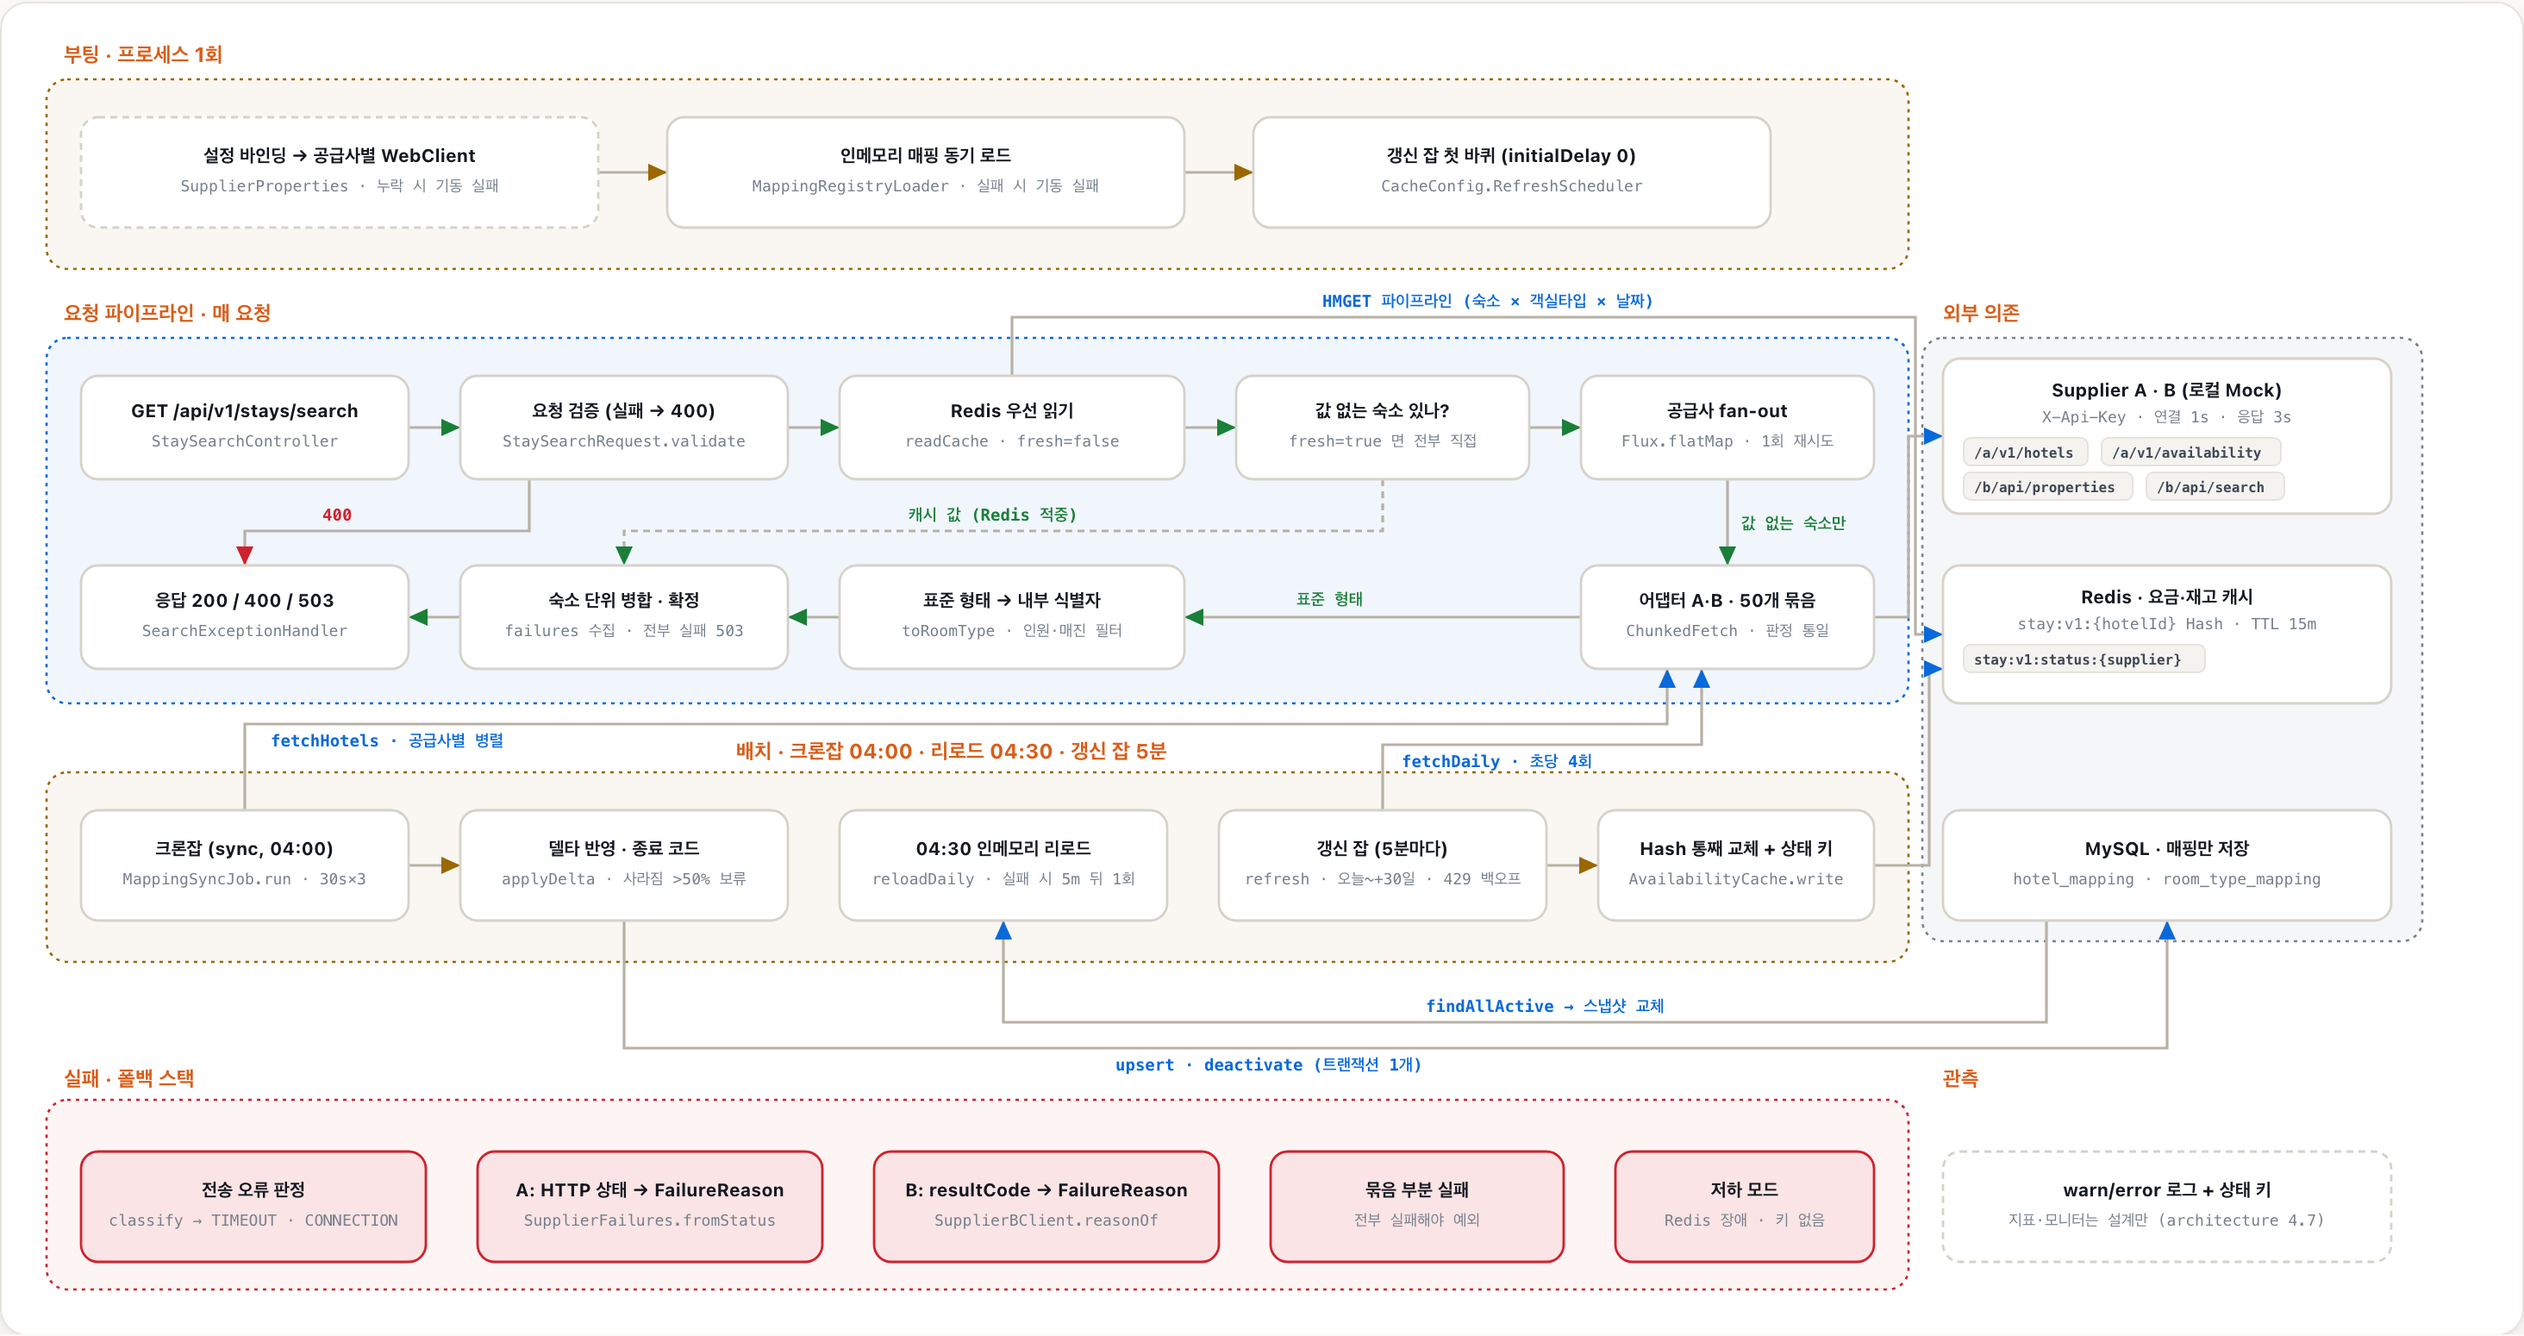
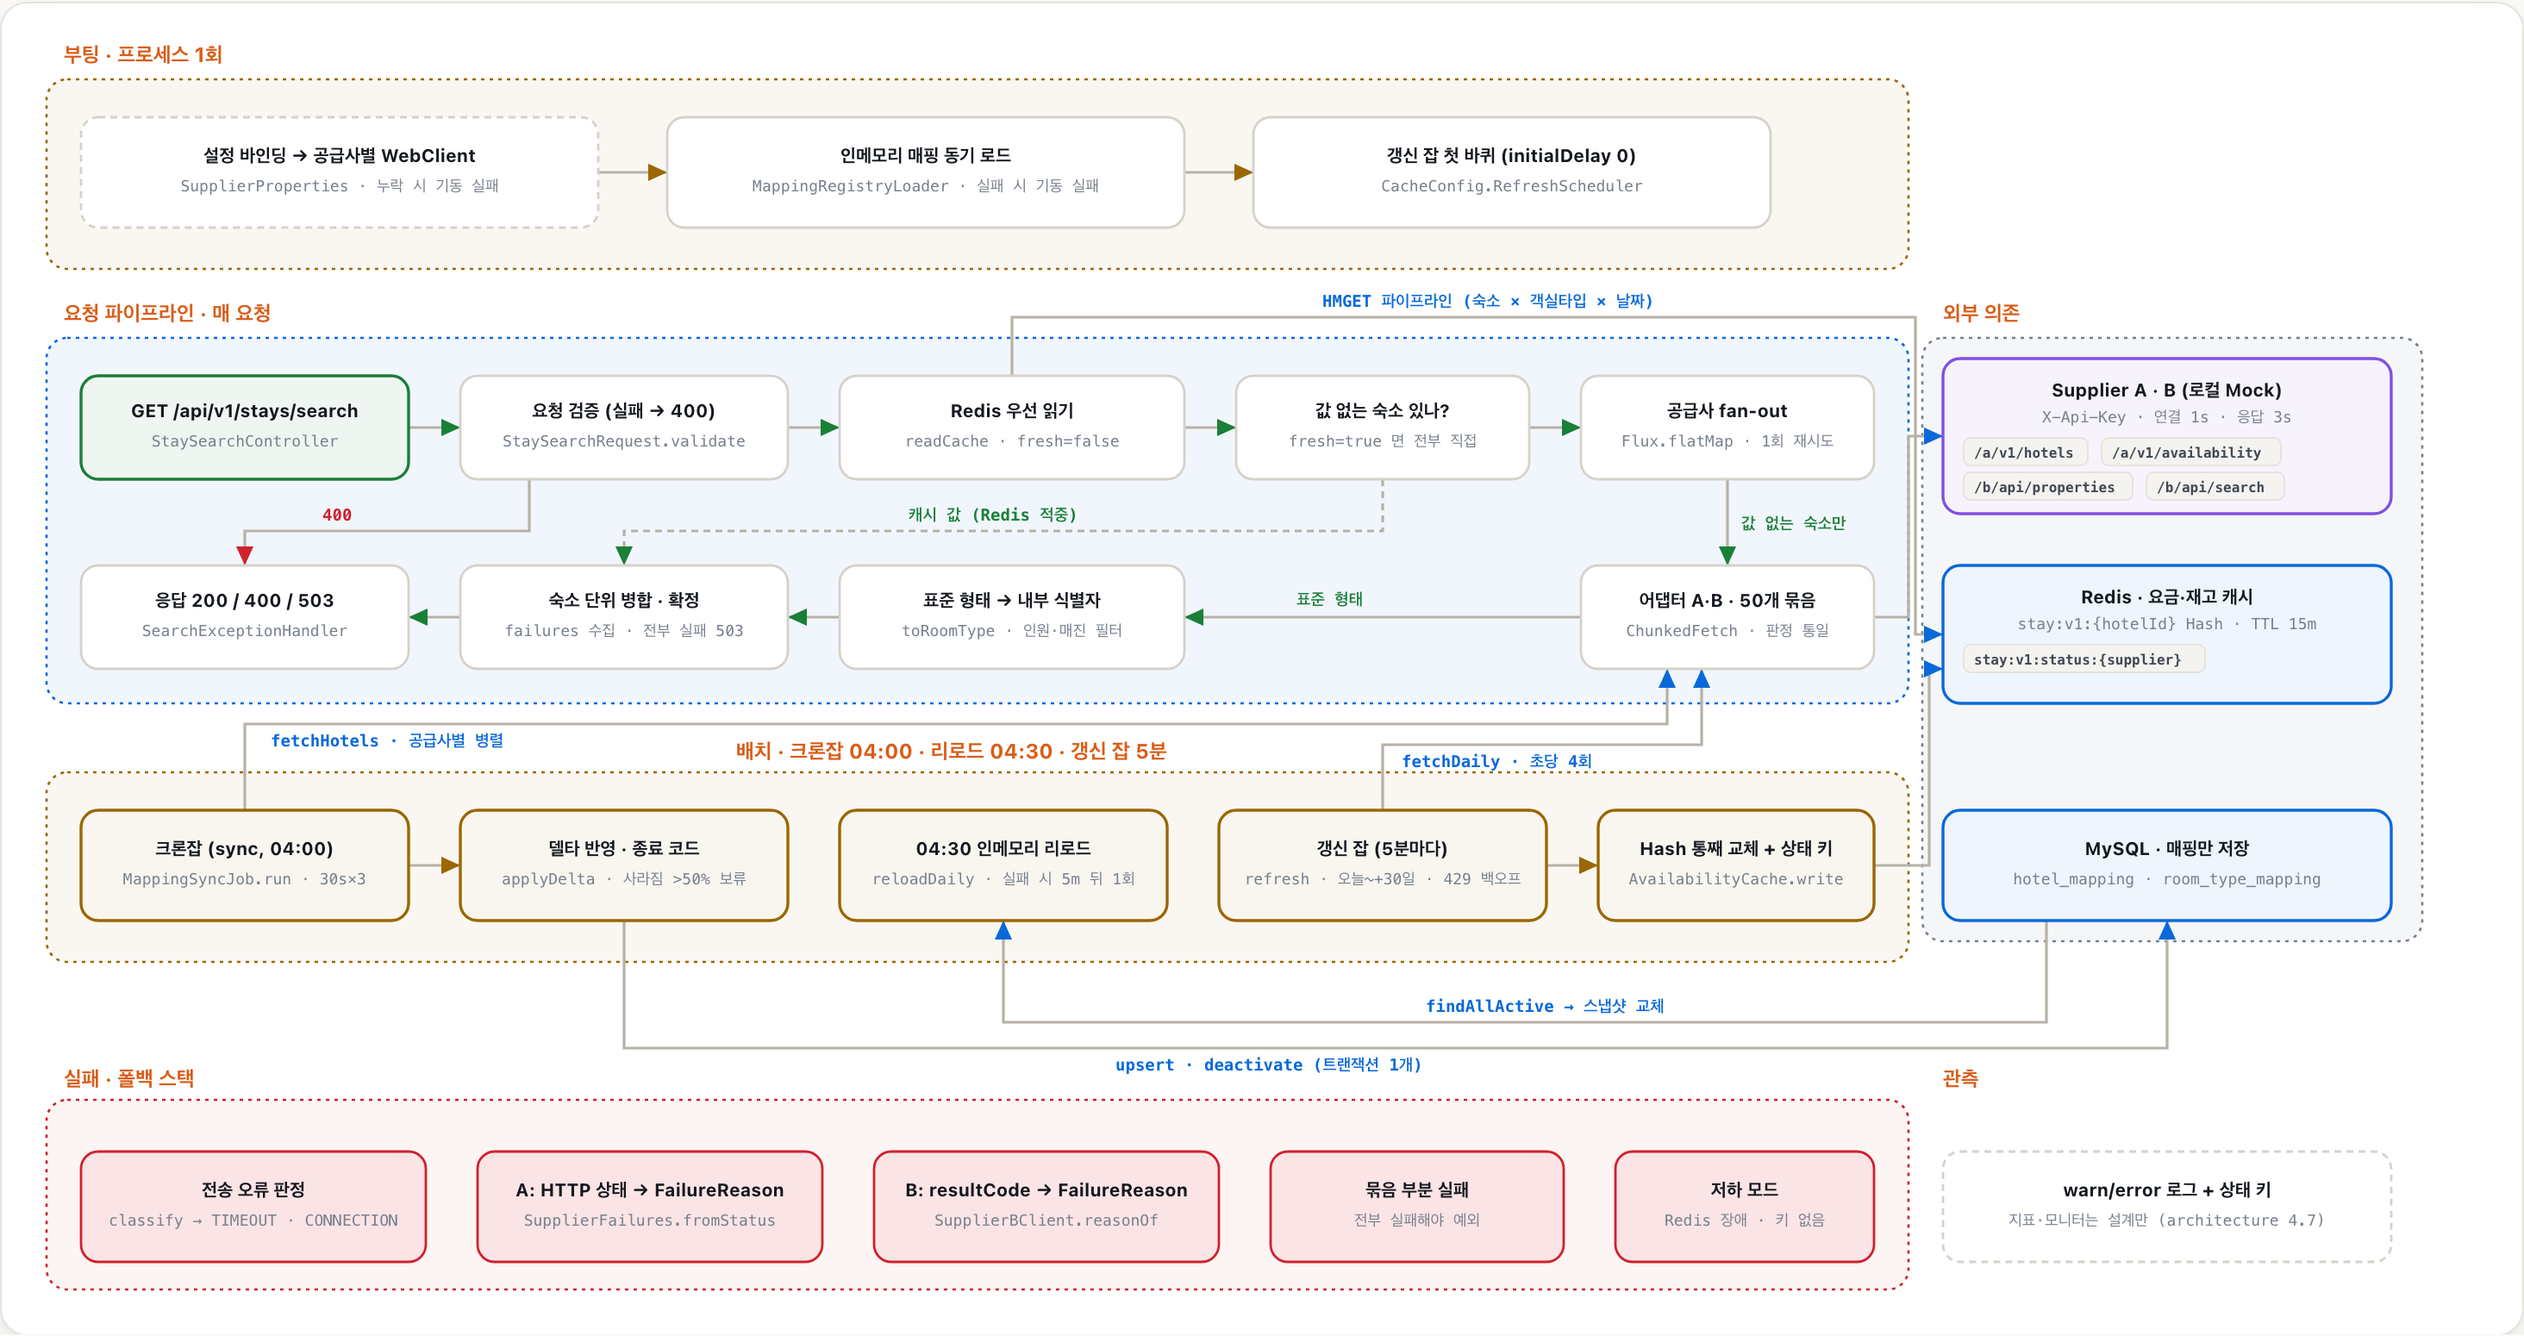
docs: 로직 지도 노드에 역할별 색을 넣고 README 동작 확인·설계만 항목 보강
지도의 검색 진입점은 초록, MySQL·Redis 는 파랑, 공급사는 보라, 배치 잡은 주황
테두리로 구분하고 미리보기 PNG 를 다시 찍는다. README 에는 크론잡 실패 시
확인할 로그와 종료 코드를 적고, 갱신 잡의 다중 팟 배치가 설계만임을 2장 표에 둔다.

Changed region(s): [[0.0311, 0.2787, 0.0622, 0.3097]]

diff --git a/docs/system-story.html b/docs/system-story.html
@@ -209,7 +209,11 @@
     </div>
   </header>
 
-  <style>.wrap{max-width:1500px;} header.doc,.scentabs,.fbmwrap,.glo,h2.sec,.sub,footer,.legend{max-width:1200px;margin-left:auto;margin-right:auto;} svg.map{min-width:1460px;}</style>
+  <style>.wrap{max-width:1500px;} header.doc,.scentabs,.fbmwrap,.glo,h2.sec,.sub,footer,.legend{max-width:1200px;margin-left:auto;margin-right:auto;} svg.map{min-width:1460px;}  .box.acc-g{stroke:var(--ssr);stroke-width:1.7;fill:color-mix(in srgb,var(--ssr) 7%,var(--node));}
+  .box.acc-b{stroke:var(--bff);stroke-width:1.7;fill:color-mix(in srgb,var(--bff) 7%,var(--node));}
+  .box.acc-v{stroke:var(--violet);stroke-width:1.7;fill:color-mix(in srgb,var(--violet) 7%,var(--node));}
+  .box.acc-a{stroke:var(--amber);stroke-width:1.7;fill:color-mix(in srgb,var(--amber) 6%,var(--node));}
+</style>
   <div class="stage" id="mapstage">
     <svg class="map" id="mapsvg" viewBox="0 0 1460 760" role="img" aria-label="로직 지도">
       <defs>
@@ -258,7 +262,7 @@
       <g class="node" data-k="b_reg"><rect class="box" x="380" y="60" width="300" height="64" rx="10"/><text class="t sm" x="530" y="86" text-anchor="middle">인메모리 매핑 동기 로드</text><text class="s" x="530" y="103" text-anchor="middle">MappingRegistryLoader · 실패 시 기동 실패</text></g>
       <g class="node" data-k="b_first"><rect class="box" x="720" y="60" width="300" height="64" rx="10"/><text class="t sm" x="870" y="86" text-anchor="middle">갱신 잡 첫 바퀴 (initialDelay 0)</text><text class="s" x="870" y="103" text-anchor="middle">CacheConfig.RefreshScheduler</text></g>
 
-      <g class="node" data-k="r_in"><rect class="box" x="40" y="210" width="190" height="60" rx="10"/><text class="t sm" x="135" y="234" text-anchor="middle">GET /api/v1/stays/search</text><text class="s" x="135" y="251" text-anchor="middle">StaySearchController</text></g>
+      <g class="node" data-k="r_in"><rect class="box acc-g" x="40" y="210" width="190" height="60" rx="10"/><text class="t sm" x="135" y="234" text-anchor="middle">GET /api/v1/stays/search</text><text class="s" x="135" y="251" text-anchor="middle">StaySearchController</text></g>
       <g class="node" data-k="r_val"><rect class="box" x="260" y="210" width="190" height="60" rx="10"/><text class="t sm" x="355" y="234" text-anchor="middle">요청 검증 (실패 → 400)</text><text class="s" x="355" y="251" text-anchor="middle">StaySearchRequest.validate</text></g>
       <g class="node" data-k="r_cache"><rect class="box" x="480" y="210" width="200" height="60" rx="10"/><text class="t sm" x="580" y="234" text-anchor="middle">Redis 우선 읽기</text><text class="s" x="580" y="251" text-anchor="middle">readCache · fresh=false</text></g>
       <g class="node" data-k="r_gate"><rect class="box" x="710" y="210" width="170" height="60" rx="10"/><text class="t sm" x="795" y="234" text-anchor="middle">값 없는 숙소 있나?</text><text class="s" x="795" y="251" text-anchor="middle">fresh=true 면 전부 직접</text></g>
@@ -268,11 +272,11 @@
       <g class="node" data-k="r_map"><rect class="box" x="480" y="320" width="200" height="60" rx="10"/><text class="t sm" x="580" y="344" text-anchor="middle">표준 형태 → 내부 식별자</text><text class="s" x="580" y="361" text-anchor="middle">toRoomType · 인원·매진 필터</text></g>
       <g class="node" data-k="r_adapter"><rect class="box" x="910" y="320" width="170" height="60" rx="10"/><text class="t sm" x="995" y="344" text-anchor="middle">어댑터 A·B · 50개 묶음</text><text class="s" x="995" y="361" text-anchor="middle">ChunkedFetch · 판정 통일</text></g>
 
-      <g class="node" data-k="j_cron"><rect class="box" x="40" y="462" width="190" height="64" rx="10"/><text class="t sm" x="135" y="488" text-anchor="middle">크론잡 (sync, 04:00)</text><text class="s" x="135" y="505" text-anchor="middle">MappingSyncJob.run · 30s×3</text></g>
-      <g class="node" data-k="j_delta"><rect class="box" x="260" y="462" width="190" height="64" rx="10"/><text class="t sm" x="355" y="488" text-anchor="middle">델타 반영 · 종료 코드</text><text class="s" x="355" y="505" text-anchor="middle">applyDelta · 사라짐 &gt;50% 보류</text></g>
-      <g class="node" data-k="j_reload"><rect class="box" x="480" y="462" width="190" height="64" rx="10"/><text class="t sm" x="575" y="488" text-anchor="middle">04:30 인메모리 리로드</text><text class="s" x="575" y="505" text-anchor="middle">reloadDaily · 실패 시 5m 뒤 1회</text></g>
-      <g class="node" data-k="j_refresh"><rect class="box" x="700" y="462" width="190" height="64" rx="10"/><text class="t sm" x="795" y="488" text-anchor="middle">갱신 잡 (5분마다)</text><text class="s" x="795" y="505" text-anchor="middle">refresh · 오늘~+30일 · 429 백오프</text></g>
-      <g class="node" data-k="j_store"><rect class="box" x="920" y="462" width="160" height="64" rx="10"/><text class="t sm" x="1000" y="488" text-anchor="middle">Hash 통째 교체 + 상태 키</text><text class="s" x="1000" y="505" text-anchor="middle">AvailabilityCache.write</text></g>
+      <g class="node" data-k="j_cron"><rect class="box acc-a" x="40" y="462" width="190" height="64" rx="10"/><text class="t sm" x="135" y="488" text-anchor="middle">크론잡 (sync, 04:00)</text><text class="s" x="135" y="505" text-anchor="middle">MappingSyncJob.run · 30s×3</text></g>
+      <g class="node" data-k="j_delta"><rect class="box acc-a" x="260" y="462" width="190" height="64" rx="10"/><text class="t sm" x="355" y="488" text-anchor="middle">델타 반영 · 종료 코드</text><text class="s" x="355" y="505" text-anchor="middle">applyDelta · 사라짐 &gt;50% 보류</text></g>
+      <g class="node" data-k="j_reload"><rect class="box acc-a" x="480" y="462" width="190" height="64" rx="10"/><text class="t sm" x="575" y="488" text-anchor="middle">04:30 인메모리 리로드</text><text class="s" x="575" y="505" text-anchor="middle">reloadDaily · 실패 시 5m 뒤 1회</text></g>
+      <g class="node" data-k="j_refresh"><rect class="box acc-a" x="700" y="462" width="190" height="64" rx="10"/><text class="t sm" x="795" y="488" text-anchor="middle">갱신 잡 (5분마다)</text><text class="s" x="795" y="505" text-anchor="middle">refresh · 오늘~+30일 · 429 백오프</text></g>
+      <g class="node" data-k="j_store"><rect class="box acc-a" x="920" y="462" width="160" height="64" rx="10"/><text class="t sm" x="1000" y="488" text-anchor="middle">Hash 통째 교체 + 상태 키</text><text class="s" x="1000" y="505" text-anchor="middle">AvailabilityCache.write</text></g>
 
       <g class="node fb" data-k="f_net"><rect class="box" x="40" y="660" width="200" height="64" rx="10"/><text class="t sm" x="140" y="686" text-anchor="middle">전송 오류 판정</text><text class="s" x="140" y="703" text-anchor="middle">classify → TIMEOUT · CONNECTION</text></g>
       <g class="node fb" data-k="f_a"><rect class="box" x="270" y="660" width="200" height="64" rx="10"/><text class="t sm" x="370" y="686" text-anchor="middle">A: HTTP 상태 → FailureReason</text><text class="s" x="370" y="703" text-anchor="middle">SupplierFailures.fromStatus</text></g>
@@ -280,9 +284,9 @@
       <g class="node fb" data-k="f_chunk"><rect class="box" x="730" y="660" width="170" height="64" rx="10"/><text class="t sm" x="815" y="686" text-anchor="middle">묶음 부분 실패</text><text class="s" x="815" y="703" text-anchor="middle">전부 실패해야 예외</text></g>
       <g class="node fb" data-k="f_degrade"><rect class="box" x="930" y="660" width="150" height="64" rx="10"/><text class="t sm" x="1005" y="686" text-anchor="middle">저하 모드</text><text class="s" x="1005" y="703" text-anchor="middle">Redis 장애 · 키 없음</text></g>
 
-      <g class="node" data-k="x_sup"><rect class="box" x="1120" y="200" width="260" height="90" rx="10"/><text class="t sm" x="1250" y="222" text-anchor="middle">Supplier A · B (로컬 Mock)</text><text class="s" x="1250" y="237" text-anchor="middle">X-Api-Key · 연결 1s · 응답 3s</text><rect class="mchip" x="1132" y="246" width="72" height="16" rx="4"/><text class="mtx" x="1138" y="257.5">/a/v1/hotels</text><rect class="mchip" x="1212" y="246" width="104" height="16" rx="4"/><text class="mtx" x="1218" y="257.5">/a/v1/availability</text><rect class="mchip" x="1132" y="266" width="98" height="16" rx="4"/><text class="mtx" x="1138" y="277.5">/b/api/properties</text><rect class="mchip" x="1238" y="266" width="80" height="16" rx="4"/><text class="mtx" x="1244" y="277.5">/b/api/search</text></g>
-      <g class="node" data-k="x_redis"><rect class="box" x="1120" y="320" width="260" height="80" rx="10"/><text class="t sm" x="1250" y="342" text-anchor="middle">Redis · 요금·재고 캐시</text><text class="s" x="1250" y="357" text-anchor="middle">stay:v1:{hotelId} Hash · TTL 15m</text><rect class="mchip" x="1132" y="366" width="140" height="16" rx="4"/><text class="mtx" x="1138" y="377.5">stay:v1:status:{supplier}</text></g>
-      <g class="node" data-k="x_mysql"><rect class="box" x="1120" y="462" width="260" height="64" rx="10"/><text class="t sm" x="1250" y="488" text-anchor="middle">MySQL · 매핑만 저장</text><text class="s" x="1250" y="505" text-anchor="middle">hotel_mapping · room_type_mapping</text></g>
+      <g class="node" data-k="x_sup"><rect class="box acc-v" x="1120" y="200" width="260" height="90" rx="10"/><text class="t sm" x="1250" y="222" text-anchor="middle">Supplier A · B (로컬 Mock)</text><text class="s" x="1250" y="237" text-anchor="middle">X-Api-Key · 연결 1s · 응답 3s</text><rect class="mchip" x="1132" y="246" width="72" height="16" rx="4"/><text class="mtx" x="1138" y="257.5">/a/v1/hotels</text><rect class="mchip" x="1212" y="246" width="104" height="16" rx="4"/><text class="mtx" x="1218" y="257.5">/a/v1/availability</text><rect class="mchip" x="1132" y="266" width="98" height="16" rx="4"/><text class="mtx" x="1138" y="277.5">/b/api/properties</text><rect class="mchip" x="1238" y="266" width="80" height="16" rx="4"/><text class="mtx" x="1244" y="277.5">/b/api/search</text></g>
+      <g class="node" data-k="x_redis"><rect class="box acc-b" x="1120" y="320" width="260" height="80" rx="10"/><text class="t sm" x="1250" y="342" text-anchor="middle">Redis · 요금·재고 캐시</text><text class="s" x="1250" y="357" text-anchor="middle">stay:v1:{hotelId} Hash · TTL 15m</text><rect class="mchip" x="1132" y="366" width="140" height="16" rx="4"/><text class="mtx" x="1138" y="377.5">stay:v1:status:{supplier}</text></g>
+      <g class="node" data-k="x_mysql"><rect class="box acc-b" x="1120" y="462" width="260" height="64" rx="10"/><text class="t sm" x="1250" y="488" text-anchor="middle">MySQL · 매핑만 저장</text><text class="s" x="1250" y="505" text-anchor="middle">hotel_mapping · room_type_mapping</text></g>
 
       <g class="node" data-k="o_log"><rect class="box cfg" x="1120" y="660" width="260" height="64" rx="10"/><text class="t sm" x="1250" y="686" text-anchor="middle">warn/error 로그 + 상태 키</text><text class="s" x="1250" y="703" text-anchor="middle">지표·모니터는 설계만 (architecture 4.7)</text></g>
     </svg>

diff --git a/README.md b/README.md
@@ -29,7 +29,7 @@ curl 'http://localhost:8080/api/v1/stays/search?checkIn=2026-09-20&checkOut=2026
 | 요금·재고 캐시 (선택) | 구현 | Redis에 5분마다 미리 채우고 검색은 Redis 우선. 비어 있으면 직접 호출 | [architecture.md 4.8](docs/architecture.md) |
 | 재시도 (선택) | 구현 | 크론잡 고정 30초 × 3회, 검색 즉시 1회, 갱신 잡 429 지수 백오프 | [architecture.md 4.6](docs/architecture.md) |
 | 정규화 실패 격리 (선택) | 부분 | 깨진 항목만 버리고 원인과 함께 로그. 격리 저장소는 없음 | [architecture.md 4.1](docs/architecture.md) |
-| 연동 지표·모니터, 서킷 브레이커 | 설계만 | 지표 정의, 알림 규칙, 한도 탐색 절차. 코드에는 실패 로그만 | [architecture.md 4.6\~4.7](docs/architecture.md) |
+| 연동 지표·모니터, 서킷 브레이커, 갱신 잡의 다중 팟 배치 | 설계만 | 지표 정의, 알림 규칙, 한도 탐색 절차, 갱신 잡 리더 선출. 코드에는 실패 로그만 있고 갱신 잡은 팟 하나 기준 | [architecture.md 4.6\~4.7](docs/architecture.md) |
 
 ## 3. 어떻게 동작하나
 
@@ -204,7 +204,7 @@ curl -s "$Q&includeSoldOut=true"                                        # 7. 예
 curl -s "$Q&fresh=true"                                                 # 8. 캐시가 있어도 공급사에 직접 물어요 (예약 직전 재확인)
 ```
 
-크론잡의 실패 처리는 Mock을 내린 채 `./gradlew :bootRun --args='--spring.profiles.active=sync'`를 돌리면 볼 수 있어요. 30초 간격으로 3회 재시도한 뒤 두 공급사 모두 건너뛰고 종료 코드 1로 끝나며, 기존 매핑은 그대로 남아요.
+크론잡의 실패 처리는 Mock을 내린 채 `./gradlew :bootRun --args='--spring.profiles.active=sync'`를 돌리면 볼 수 있어요. 로그에 `mapping sync retry supplier=A attempt=1..3`이 30초 간격으로 찍힌 뒤 `mapping sync skipped supplier=A reason=CONNECTION (existing mapping kept)`와 `exitCode=1`이 나오고, `hotel_mapping`의 행은 그대로예요.
 
 ## 6. 문서
 - [docs/architecture.md](docs/architecture.md): 아키텍처. 전체 구성, 유스케이스, 공급사 연동, Mock Supplier, 실행·테스트 구성
